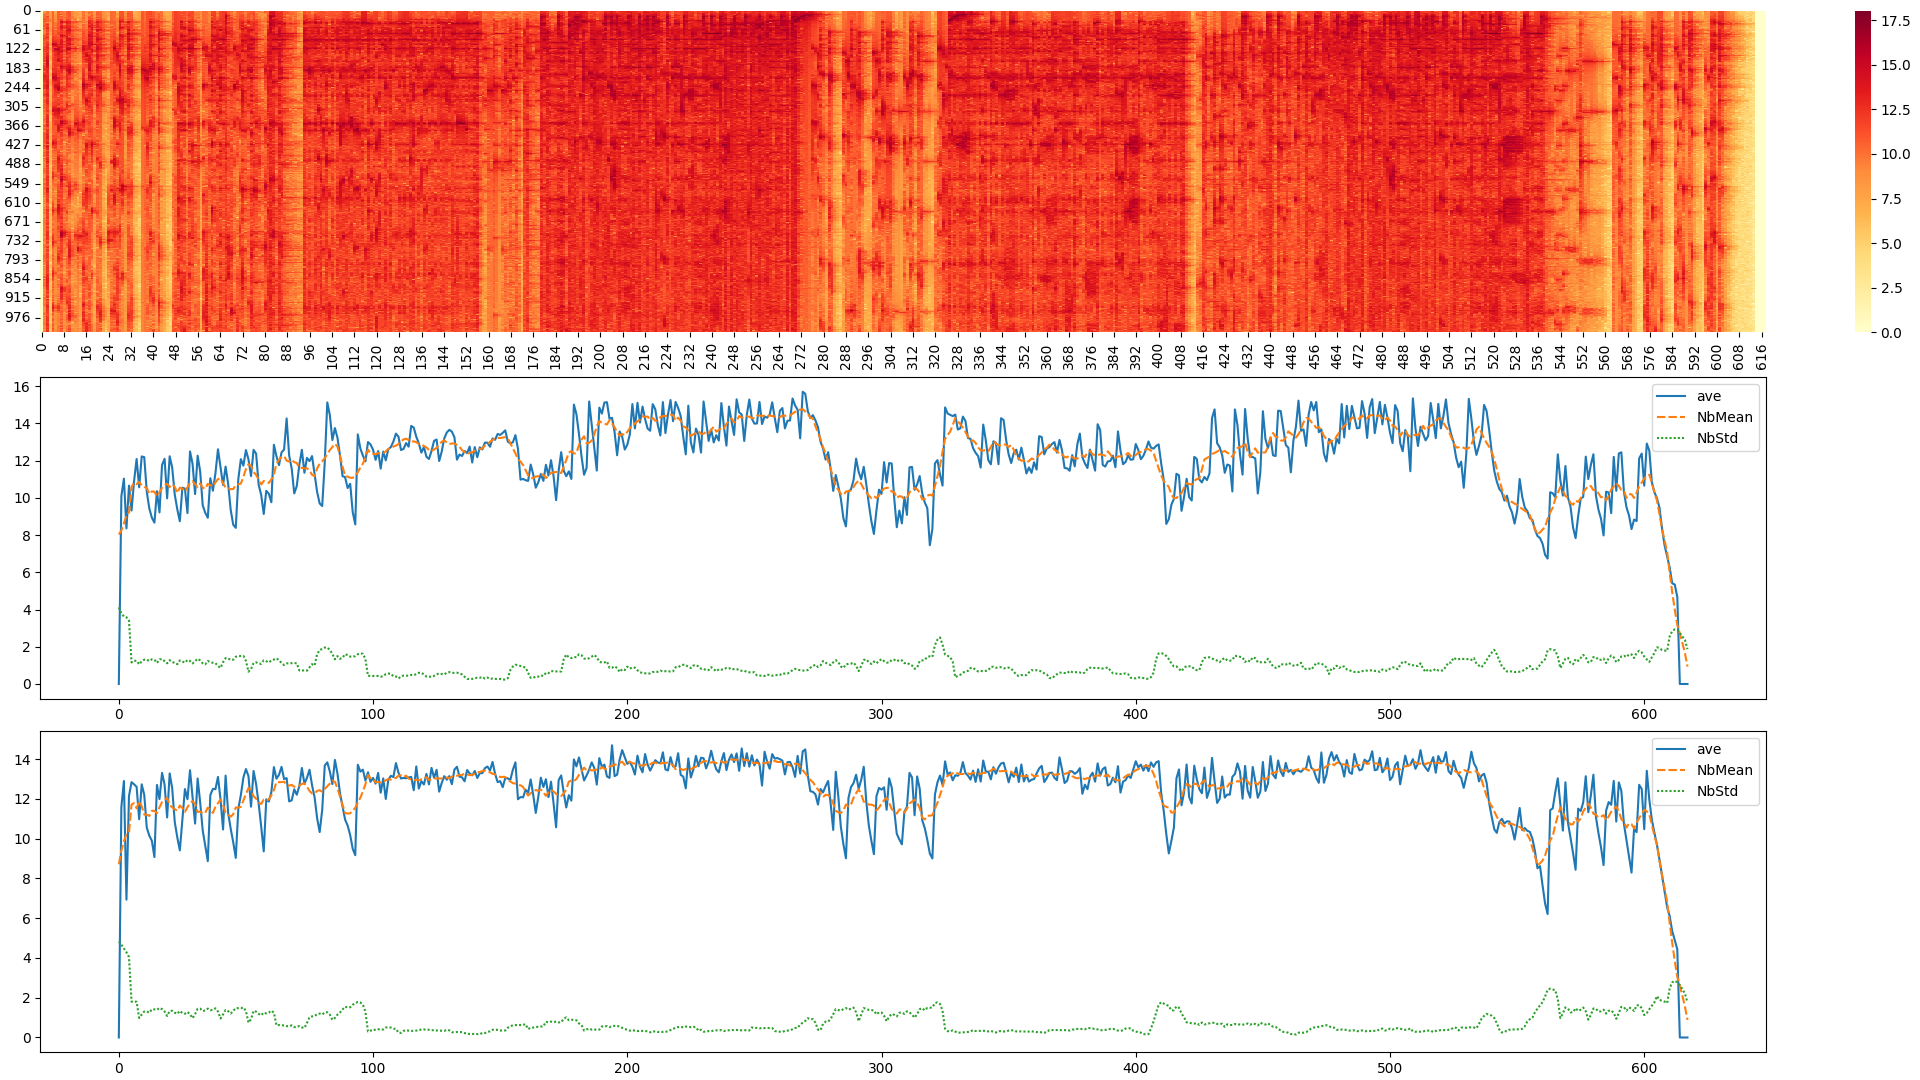
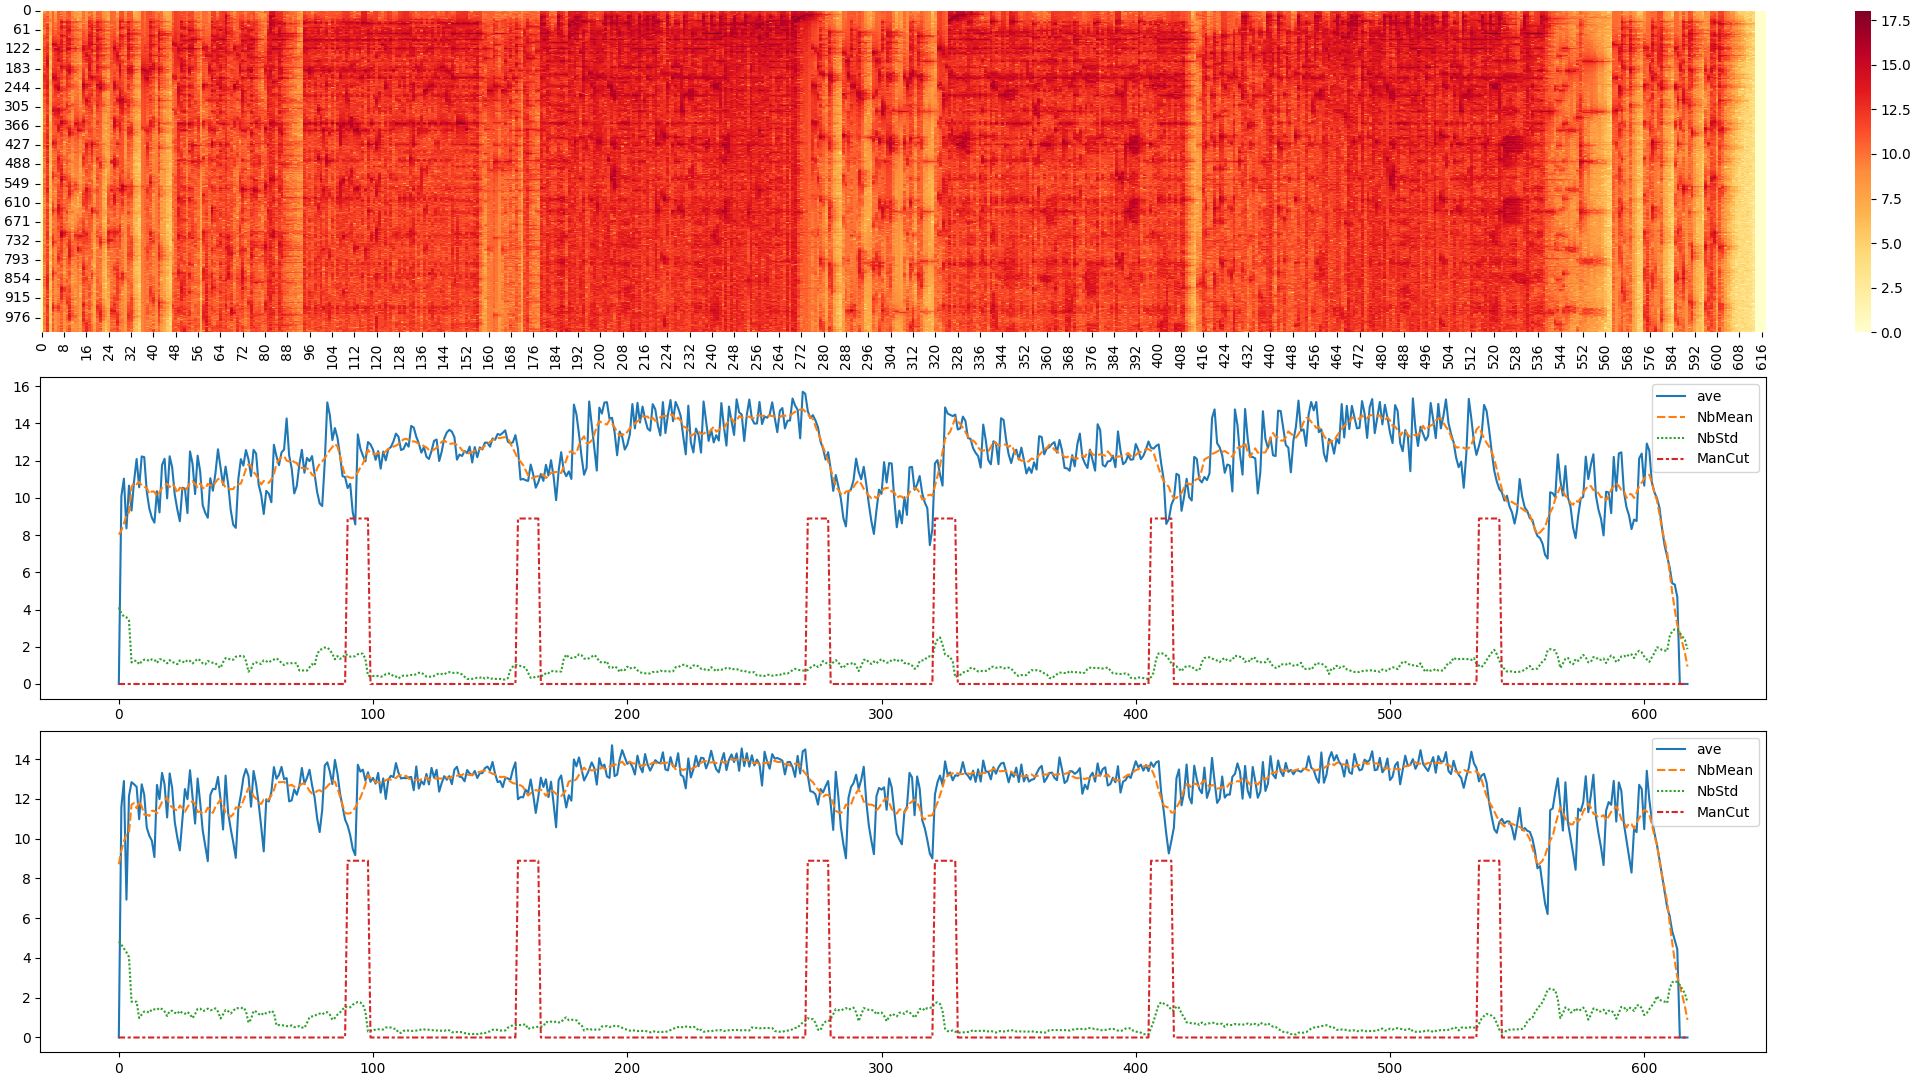
+MAN

Changed region(s): [[0.875, 0.7333, 0.9062, 0.7639], [0.875, 0.3972, 0.9062, 0.4278]]

diff --git a/Tools/HeatMap.py b/Tools/HeatMap.py
@@ -1,9 +1,17 @@
 import sys
 
 # check argv
-if len(sys.argv) != 3:
-    sys.stderr.write("[HeatMap] Usage: python3 HeatMap.py <file.fft> <LineWidth>")
+if len(sys.argv) not in [3, 4]:
+    sys.stderr.write("[HeatMap] Usage: python3 HeatMap.py <file.fft> <LineWidth>\n")
+    sys.stderr.write("[HeatMap]    OR: python3 HeatMap.py <file.fft> <file.man> <LineWidth>\n")
     exit()
+
+# music parts
+PARTS = [0, 73, 146, 292, 584, 1024]
+WIDTH = 4 
+MAX_HEIGHT = 16
+FRAME_RATE = 16384
+BASE_RATE  = 48000 
 
 # import process is very slow
 import numpy as np
@@ -12,8 +20,15 @@ import seaborn as sns
 import matplotlib.pyplot as plt
 
 # load argv arguments
-fileName  = sys.argv[1]
-lineWidth = int(sys.argv[2])
+if len(sys.argv) == 3:
+    HAS_MANFILE = False
+    fileName    = sys.argv[1]
+    lineWidth   = int(sys.argv[2])
+else:
+    HAS_MANFILE = True
+    fileName    = sys.argv[1]
+    manFile     = sys.argv[2]
+    lineWidth   = int(sys.argv[3])
 
 # read in every line from the file
 df=[]
@@ -21,13 +36,33 @@ for line in open(fileName):
     tmp  = [float(x) for x in line.split()] [:lineWidth]
     df.append(tmp)
 
+# Read in MAN FILE
+if HAS_MANFILE:
+    # every line in the file is a time slot
+    slotCnt = len(df)
+    manSeq  = [0] * slotCnt
+    stotal  = (FRAME_RATE / BASE_RATE) * slotCnt 
+
+    sys.stderr.write("[HeatMap] stotal = %d\n" % stotal)
+
+    for line in open(manFile):
+        sl = line.strip()
+        if sl == "" or sl[0] == "#": # empty line or comment
+            continue
+        minute, second = map(int, sl.split(':'))
+        stime = minute * 60 + second
+        
+        # round to an even number
+        pos = round(stime / stotal * slotCnt)
+        sys.stderr.write("[HeatMap] set pos = %d\n" % pos)
+
+        if 0 <= pos and pos < slotCnt:
+            manSeq[pos] = (WIDTH + 1) * MAX_HEIGHT
+    manSeq = np.array(manSeq)
+
 # take a log is reasonable because its value is really high
 # +1 to avoid number 0
 df = np.log(np.array(df) + 1)
-
-# music part
-PARTS = [0, 73, 146, 292, 584, 1024]
-WIDTH = 4 
 
 print(df)
 # set picture size
@@ -90,9 +125,18 @@ aveL = np.array(aveL)
 # sns.lineplot(np.r_[aveL, CalculateNeighborhoodStd(aveL, WIDTH), CalculateNeighborhoodStd(aveL, WIDTH)],
 #        ax = ax[1])
 
-data_np = np.c_[aveL, CalculateNeighborhoodMean(aveL, WIDTH), CalculateNeighborhoodStd(aveL, WIDTH)] 
-data_df = pd.DataFrame(data_np, None, ["ave", "NbMean", "NbStd"])
-sns.lineplot(data_df, ax=ax[1])
+# show subplot in axID
+def ShowDataInSubPlot(aveNP, axID):
+    data_np = np.c_[aveNP, CalculateNeighborhoodMean(aveNP, WIDTH), CalculateNeighborhoodStd(aveNP, WIDTH)] 
+    tags = ["ave", "NbMean", "NbStd"]
+
+    if HAS_MANFILE:
+        data_np = np.c_[data_np, CalculateNeighborhoodMean(manSeq, WIDTH)]
+        tags.append("ManCut")
+    data_df = pd.DataFrame(data_np, None, tags) 
+    sns.lineplot(data_df, ax=ax[axID])
+
+ShowDataInSubPlot(aveL, 1)
 
 # calculate the Middle Freq ave map
 aveH = []
@@ -100,9 +144,7 @@ for i in range(df.shape[0]):
     aveH.append(df[i, 73:292].mean())
 aveH = np.array(aveH)
 
-data_np = np.c_[aveH, CalculateNeighborhoodMean(aveH, WIDTH), CalculateNeighborhoodStd(aveH, WIDTH)] 
-data_df = pd.DataFrame(data_np, None, ["ave", "NbMean", "NbStd"])
-sns.lineplot(data_df, ax=ax[2])
+ShowDataInSubPlot(aveH, 2)
 
 # dump picture into file
 plt.savefig('./Data/TMP/TMP.png')

diff --git a/Tools/PCA.py b/Tools/PCA.py
@@ -1,10 +1,11 @@
 import sys
 
 if len(sys.argv) != 3:
-    sys.stderr.write("[PCA] Usage: python3 PCA.py <file.txt> <linewidth>\n")
+    sys.stderr.write("[PCA] Usage: python3 PCA.py <file.fft> <linewidth>\n")
     exit()
 
 # get argv from sys.argv
+MAX_WIDTH = 1024
 filename  = sys.argv[1]
 linewidth = int(sys.argv[2])
 
@@ -20,11 +21,15 @@ def GetNumpyFromFile(filename, lineWidth):
         if sl != "":
             tmp = list(map(float, sl.split()))
             assert len(tmp) == lineWidth
-            ans.append(tmp)
+            ans.append(tmp[:MAX_WIDTH])
     return np.array(ans)
 
 # X is the data to do PCA
 X = GetNumpyFromFile(filename, linewidth)
+
+# Z-score normalizationg
+from sklearn import preprocessing
+X = preprocessing.scale(X)
 
 # run pca model on X
 # calculate variance_ratio for all column
@@ -46,6 +51,8 @@ Model_PCA.fit(X)
 
 sys.stderr.write("[PCA] n_components_ = %d\n" % \
         Model_PCA.n_components_)
+sys.stderr.write("[PCA] var_ratio = " + str(Model_PCA.explained_variance_ratio_) + "\n")
+sys.stderr.write("[PCA] components_[1] = " + str(Model_PCA.components_[1]) + "\n")
 
 Components = Model_PCA.components_
 for i in range(Components.shape[0]):

diff --git a/Tools/Mp3Wav.py b/Tools/Mp3Wav.py
@@ -1,7 +1,7 @@
 from pydub import AudioSegment
 
 def mp3_to_wav(mp3_path, wav_path):
-    song = AudioSegment.from_mp3(mp3_path)
+    song = AudioSegment.from_mp3(mp3_path).set_frame_rate(44100)
     song.export(wav_path, format="wav")
 
 import sys
